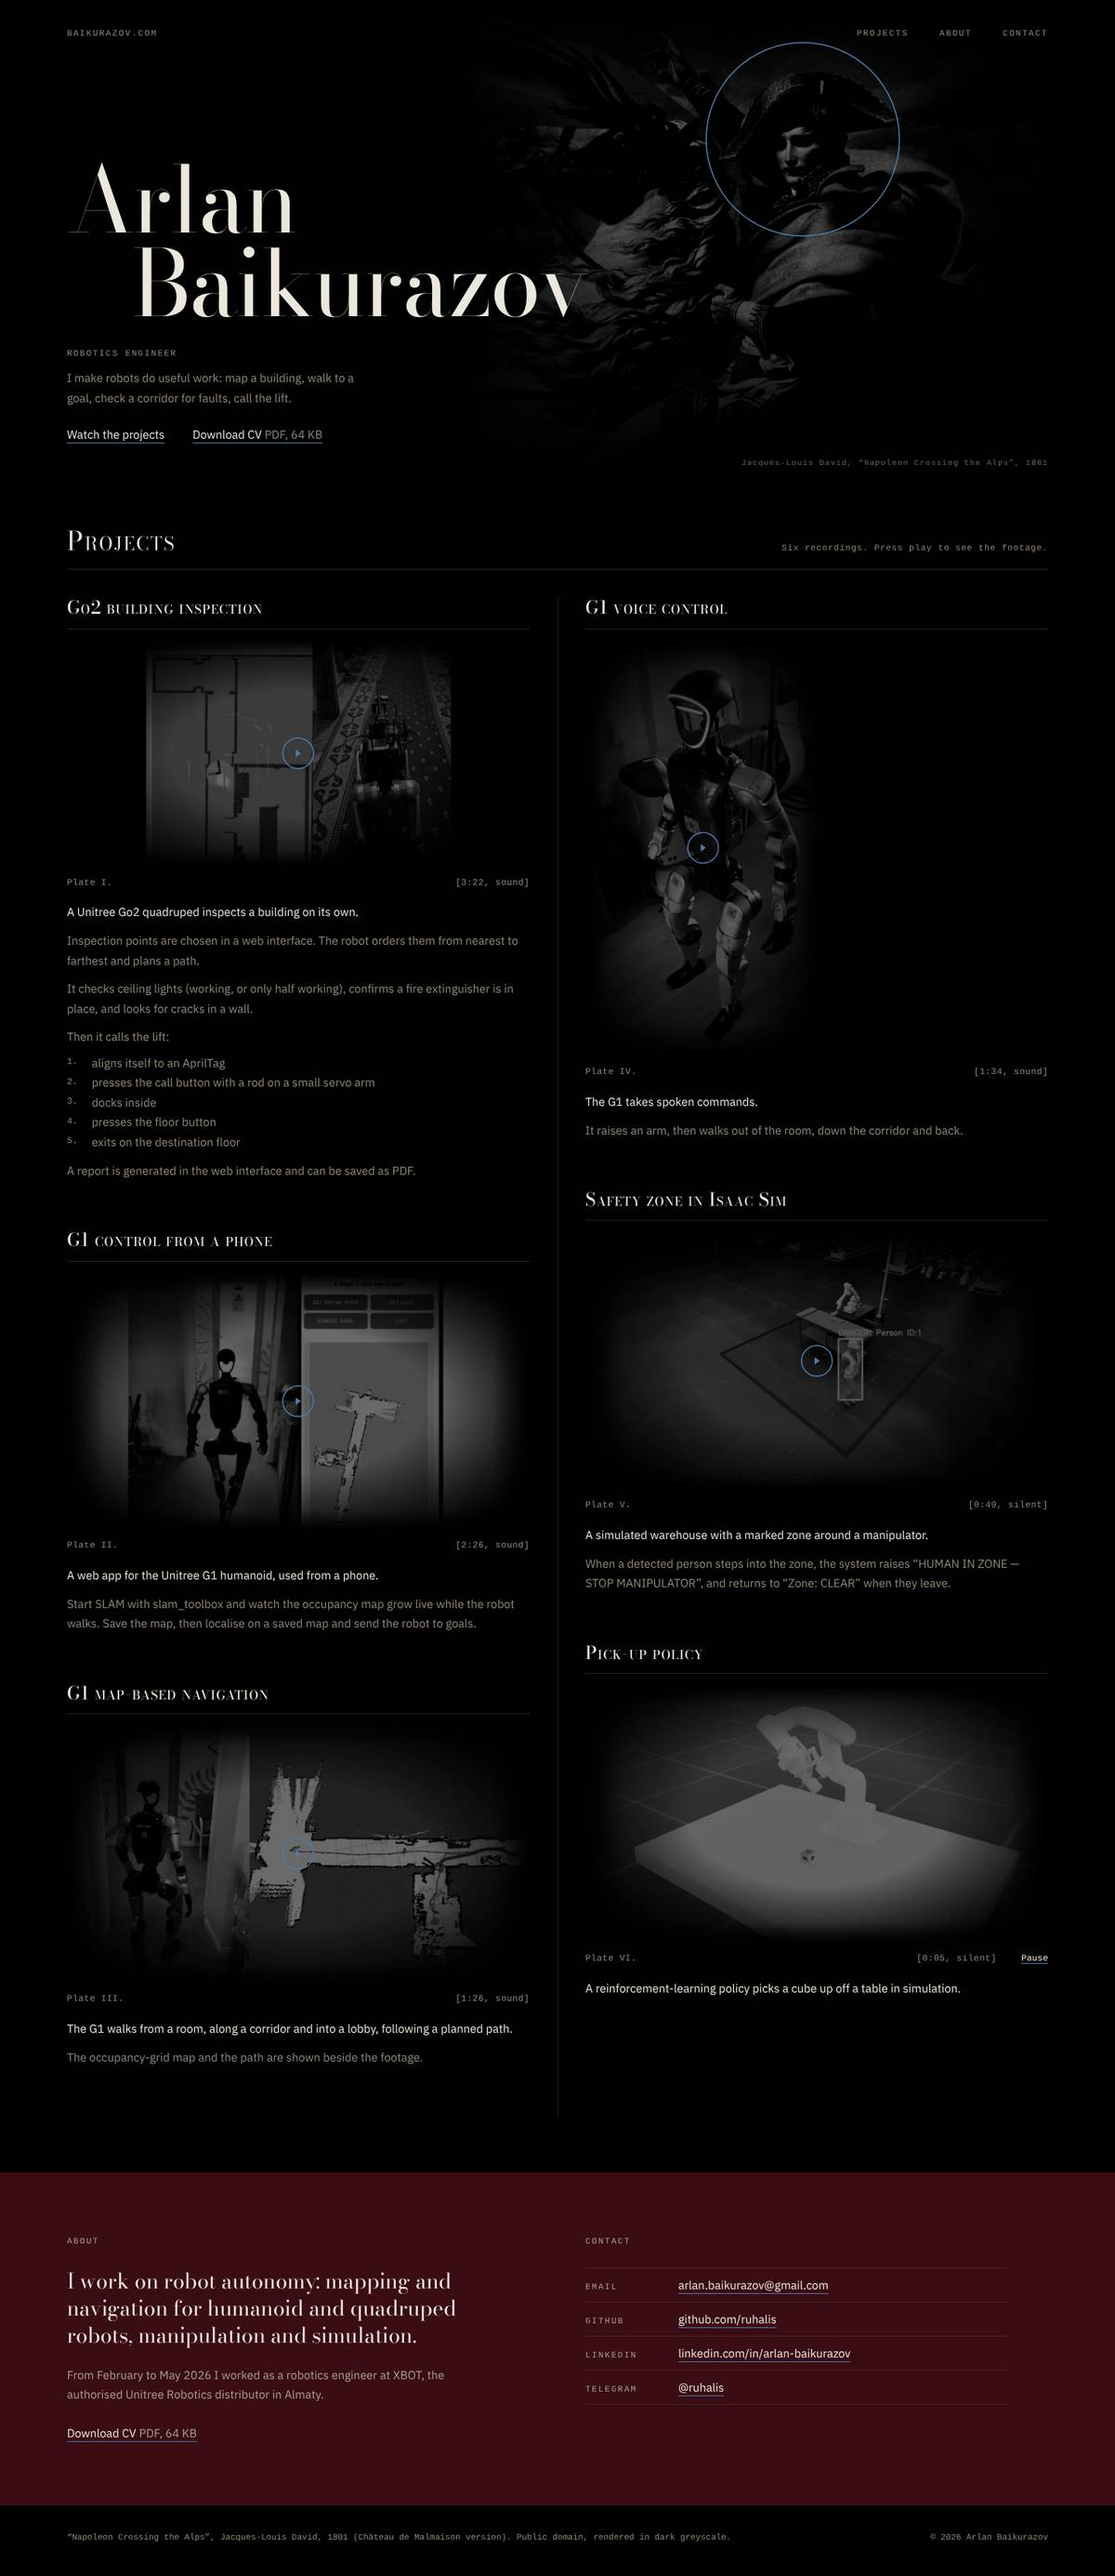
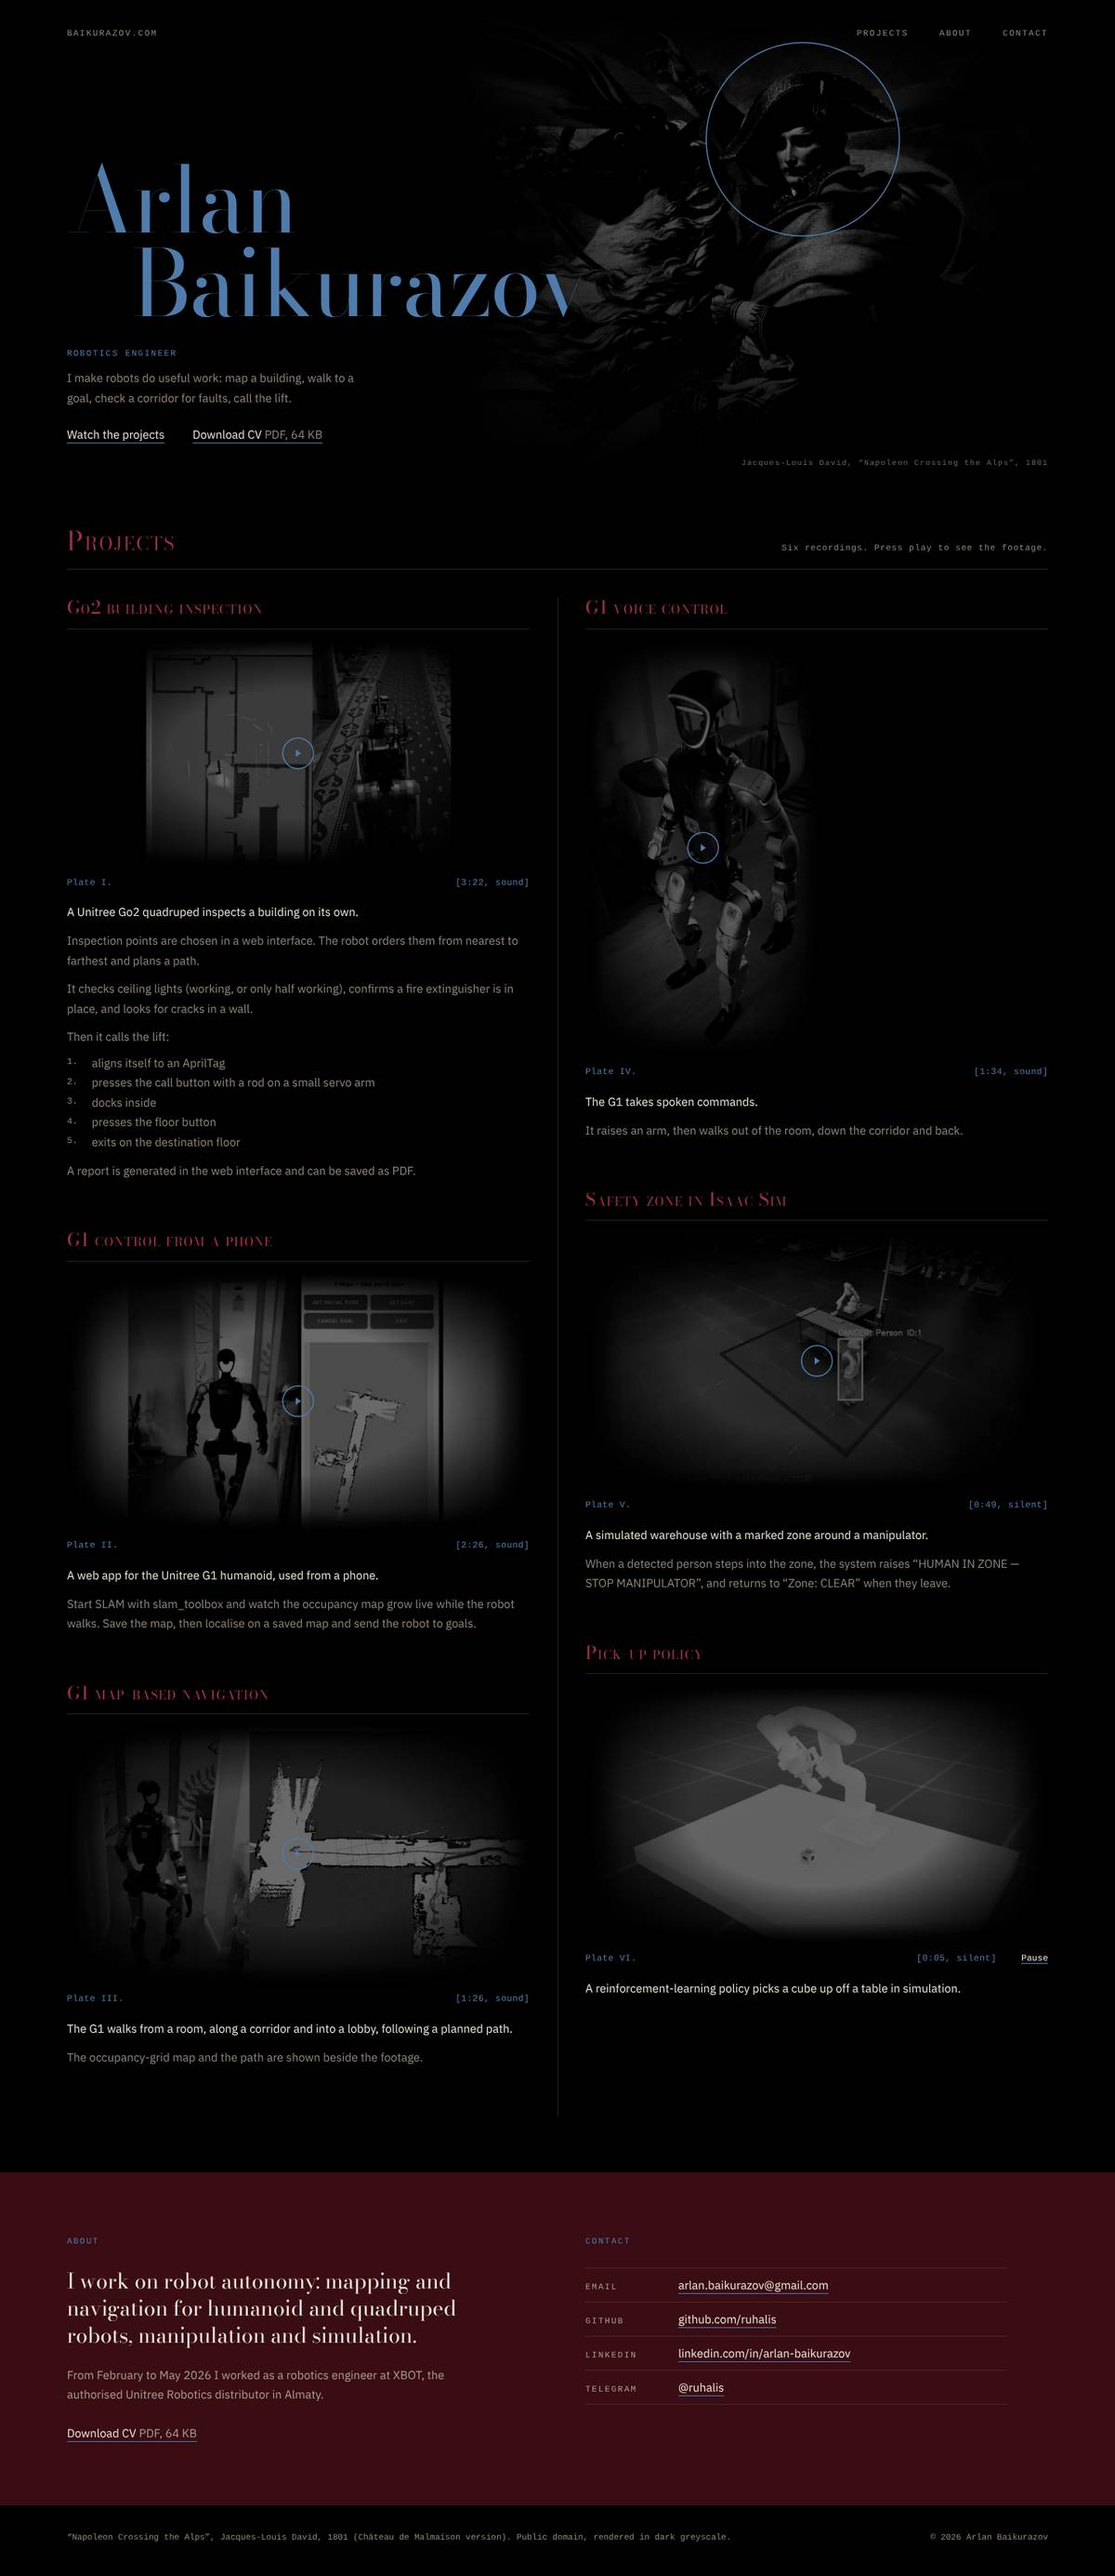
Design 13d: Saxe-blue name and captions, burgundy headings and plate titles
Claude-Session: https://claude.ai/code/session_018rEHNHrtF5dDKRG69CQNPH

Changed region(s): [[0.0925, 0.0621, 0.5242, 0.1242]]

diff --git a/assets/css/site.css b/assets/css/site.css
@@ -21,7 +21,8 @@
 :root {
   --black: #000;
   --wine: #3a0c14;               /* the one burgundy band */
-  --saxe: #4F7CAC;               /* the one accent: rings, underlines, focus */
+  --saxe: #4F7CAC;               /* accent: rings, underlines, focus, name, captions (4.8:1 on black) */
+  --claret: #9c2f44;             /* burgundy for large display text only (2.9:1 on black) */
   --ink: #ece7dc;                /* 17:1 on black */
   --mute: #8f877a;               /* 5.7:1 on black, 4.8:1 on the band */
   --rule: rgba(143, 135, 122, .26);
@@ -169,13 +170,13 @@ a:hover { color: #fff; text-decoration-color: var(--ink); }
 .hero__name {
   font: 400 clamp(3.4rem, 8.2vw, 8rem)/0.92 var(--serif);
   letter-spacing: -0.012em;
-  color: var(--ink);
+  color: var(--saxe);
   margin-bottom: 1.75rem;
 }
 .hero__name span { display: block; }
 .hero__name span + span { padding-left: 0.72em; }
 
-.hero__role { margin-bottom: .6rem; }
+.hero__role { margin-bottom: .6rem; color: var(--saxe); }
 .hero__intro { max-width: 24rem; color: var(--mute); margin-bottom: 1.4rem; }
 .hero__go { display: flex; flex-wrap: wrap; gap: .5rem 2.25rem; }
 
@@ -209,6 +210,7 @@ a:hover { color: #fff; text-decoration-color: var(--ink); }
   font: 400 clamp(1.6rem, 2.6vw, 2.1rem)/1.1 var(--serif);
   font-variant-caps: small-caps;
   letter-spacing: .06em;
+  color: var(--claret);
 }
 .projects__head .label { letter-spacing: .08em; text-transform: none; }
 
@@ -227,7 +229,7 @@ a:hover { color: #fff; text-decoration-color: var(--ink); }
   font: 500 1.45rem/1.15 var(--serif);
   font-variant-caps: small-caps;
   letter-spacing: .04em;
-  color: var(--ink);
+  color: var(--claret);
   margin-bottom: .8rem;
 }
 
@@ -256,7 +258,7 @@ a:hover { color: #fff; text-decoration-color: var(--ink); }
   margin-top: .6rem;
   font: 400 .72rem/1.5 var(--mono);
   letter-spacing: .04em;
-  color: var(--mute);
+  color: var(--saxe);
 }
 .plate__fig { margin-right: auto; }
 .plate__note { white-space: nowrap; font-variant-numeric: tabular-nums; }
@@ -350,6 +352,7 @@ a:hover { color: #fff; text-decoration-color: var(--ink); }
 #about .quiet { margin-bottom: 1.5rem; }
 .band .quiet { color: #a99e8e; }   /* a touch lighter on the burgundy: 5.6:1 */
 .band .label { color: #a99e8e; }
+.band h2.label { color: var(--saxe); }   /* headings on the band: Saxe, 3.9:1 */
 
 .contact li {
   display: grid;

diff --git a/DESIGN.md b/DESIGN.md
@@ -1,4 +1,14 @@
-# Design 13: Saxe halo
+# Design 13d: Saxe halo, blue and burgundy
+
+Variant: design 13 unchanged except for text colour. The stepped name, the role line and the
+monospace plate captions are Saxe blue #4F7CAC; the "Projects" heading and the six small-caps
+plate titles are a legible burgundy #9c2f44. On the dark burgundy band the "About" and "Contact"
+headings are Saxe blue instead. Body paragraphs stay off-white/muted; rules stay grey.
+Contrast (WCAG): Saxe on black 4.81:1; #9c2f44 on black 2.90:1 (display sizes only, 1.45rem+,
+just under 3:1); Saxe on band #3a0c14 3.87:1; ink #ece7dc on black 17.03:1, on band 13.71:1;
+band muted #a99e8e on band 6.41:1.
+
+## Base: design 13, Saxe halo
 
 Concept: design 05's dark rider, design 01's stepped name and design 07's plates, on pure black.
 The rider from David's "Napoleon Crossing the Alps" is a very dark greyscale cut-out dissolving
